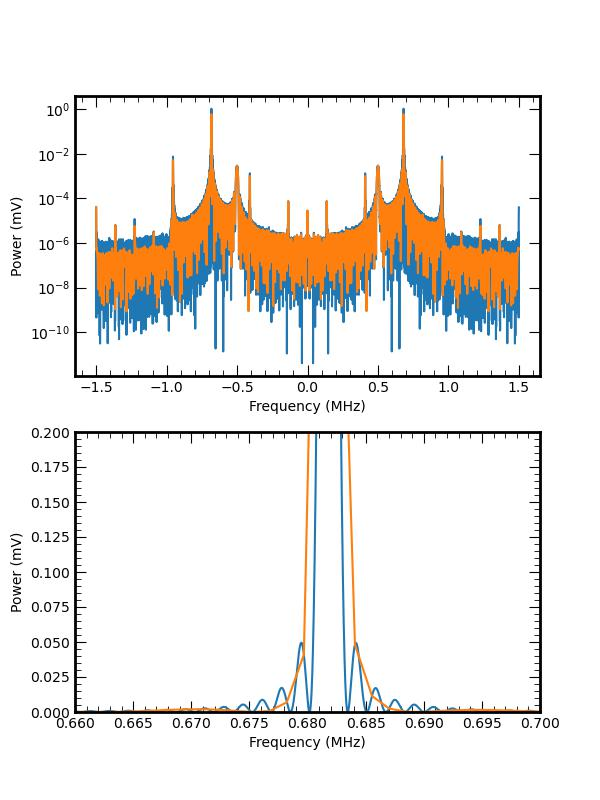
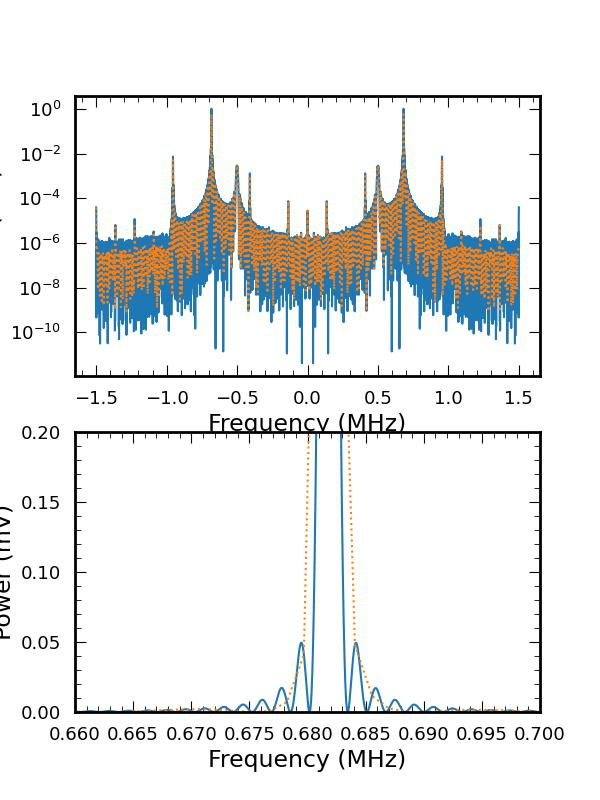
Changed solid to dotted line

diff --git a/lab1/sec5_4_1.py b/lab1/sec5_4_1.py
@@ -51,18 +51,27 @@ leakedFrequencies = np.fft.fftfreq(len(leakedPowerSpectrum), timeStep)
 fig, ax = plt.subplots(2,1, figsize = (6,8))
 
 ax[0].plot(np.fft.fftshift(leakedFrequencies)*1e-6,np.fft.fftshift(leakedPowerSpectrum)*1e-6)
-ax[0].plot(np.fft.fftshift(frequencies)*1e-6, np.fft.fftshift(powerSpectrum)*1e-6)
-ax[0].set_xlabel("Frequency (MHz)")
-ax[0].set_ylabel("Power (mV)")
+ax[0].plot(np.fft.fftshift(frequencies)*1e-6, np.fft.fftshift(powerSpectrum)*1e-6, ls = ":")
+ax[0].set_xlabel("Frequency (MHz)", fontsize = axesLabelSize)
+ax[0].set_ylabel("Power (mV)", fontsize = axesLabelSize)
 
 ax[0].set_yscale("log")
 
 ax[1].plot(np.fft.fftshift(leakedFrequencies)*1e-6,np.fft.fftshift(leakedPowerSpectrum)*1e-6)
-ax[1].plot(np.fft.fftshift(frequencies)*1e-6, np.fft.fftshift(powerSpectrum)*1e-6)
-ax[1].set_xlabel("Frequency (MHz)")
-ax[1].set_ylabel("Power (mV)")
+ax[1].plot(np.fft.fftshift(frequencies)*1e-6, np.fft.fftshift(powerSpectrum)*1e-6, ls = ":")
+ax[1].set_xlabel("Frequency (MHz)", fontsize = axesLabelSize)
+ax[1].set_ylabel("Power (mV)", fontsize = axesLabelSize)
 
 ax[1].set_xlim(0.66,0.7)
 ax[1].set_ylim(0,0.2)
+
+ax[0].tick_params(axis = 'x', bottom = True, top = True, which = "major", direction = "in", labelsize = tickLabelSize, pad = 10)
+ax[0].tick_params(axis = 'x', bottom = True, top = True, which = "minor", direction = "in", labelsize = tickLabelSize, pad = 10)
+ax[0].tick_params(axis = 'y', bottom = True, top = True, which = "major", direction = "in", labelsize = tickLabelSize, pad = 10)
+ax[0].tick_params(axis = 'y', bottom = True, top = True, which = "minor", direction = "in", labelsize = tickLabelSize, pad = 10)
+ax[1].tick_params(axis = 'x', bottom = True, top = True, which = "major", direction = "in", labelsize = tickLabelSize, pad = 10)
+ax[1].tick_params(axis = 'x', bottom = True, top = True, which = "minor", direction = "in", labelsize = tickLabelSize, pad = 10)
+ax[1].tick_params(axis = 'y', bottom = True, top = True, which = "major", direction = "in", labelsize = tickLabelSize, pad = 10)
+ax[1].tick_params(axis = 'y', bottom = True, top = True, which = "minor", direction = "in", labelsize = tickLabelSize, pad = 10)
 
 plt.savefig("./images/spectralLeakagenp.jpg")
